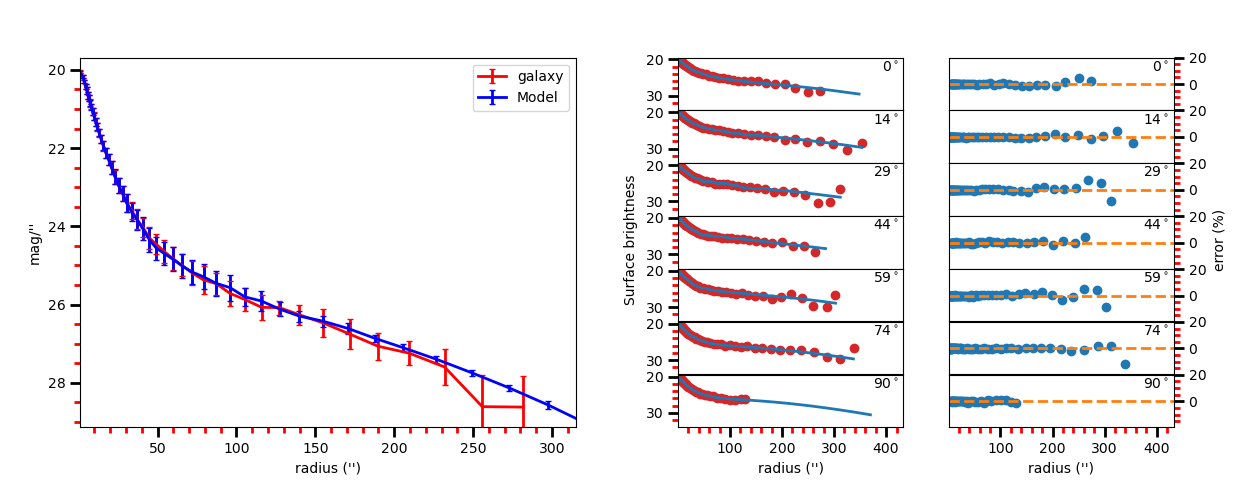
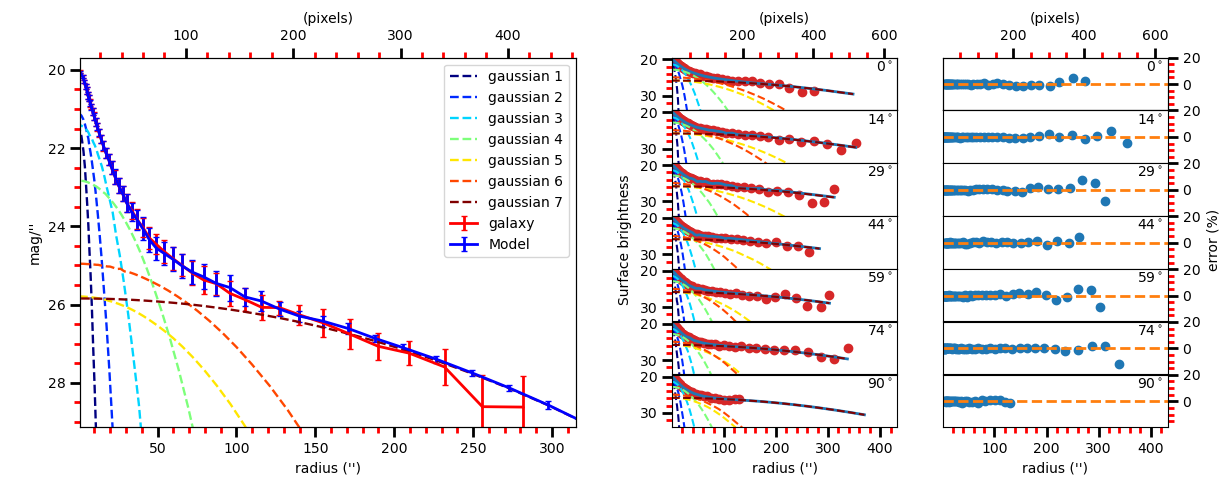
paper updated on comments of collaborators (not all of them). Figure and docs were updated as well.
On branch master
 Your branch is up-to-date with 'ellipsect/master'.
 Changes to be committed:
	modified:   ../docs/Ellipse.md
	modified:   ../docs/sbprof.md
	modified:   Fig1.png
	modified:   paper.md

diff --git a/paper/paper.md b/paper/paper.md
@@ -1,5 +1,5 @@
 ---
-title: 'EllipSect: A python tool for surface brightness analysis'
+title: 'EllipSect: A Python tool for surface brightness analysis'
 tags:
   - Python
   - astronomy
@@ -13,7 +13,9 @@ authors:
   - name: Omar U. Reyes-Amador
     affiliation: 2
   - name: Emmanuel Ríos-López
+    orcid: 0000-0002-4436-221X
     affiliation: "1, 3"
+
 affiliations:
  - name: Facultad de Ciencias de la Tierra y el Espacio, Universidad Autónoma de Sinaloa, Blvd. de la Americas y Av. Universitarios S/N, Ciudad Universitaria, C.P. 80010 Culiacán, Sinaloa, México
    index: 1
@@ -28,27 +30,27 @@ bibliography: paper.bib
 # Summary
 
 Galaxies are the building blocks of the large scale structure of the Universe. 
-The larger ones contain billions of stars that forms stellar components such 
-as bulges, bars, disks and rings. Consequently, these components makes a diverse variety of galaxy morphology. The quantification of the galaxy images is a fundamental step to understand their structure and composition. Using models that fit their light distribution is one way to do it. Such models are mathematical functions of surface brightness for the different components of the galaxies. A suitable model that reliably represents the physical properties requires a detailed inspection of the fitted models.
+The larger ones contain billions of stars that form stellar components such 
+as bulges, bars, disks and rings. Consequently, these components make a diverse variety in galaxy morphology. The quantification of the galaxy images is a fundamental step to understand their structure and composition [emmanuel comentario]. Using models that fit their light distribution is one way to do it. Such models are mathematical functions of surface brightness for the different components of the galaxies. A suitable model that reliably represents the physical properties requires a detailed inspection of the fitted models.
 
-A well-known program to fit surface brightness models is GALFIT ([@peng02] 1752 cites at the moment of writing this paper). It provides a wide variety of standard functions such as Sérsic [@sersic68], de Vaucouleurs [@devau48], Nuker, gaussian etc. GALFIT provides the fitted model parameters, errors, and a FITS (Flexible Image Transport System) cube image to check if the galaxy model is the appropriate one.
-The FITS file contains the galaxy, model and residual images. Typically, a visual check on those images can be difficult since it relies on image contrast. Nevertheless, users construct surface brightness profiles from the GALFIT's provided data to compare the galaxy and model images.
+A well-known program for modeling the surface brightness of astronomical sources is GALFIT [[@peng02] 1752 cites at the moment of writing this paper]. It allows to use a wide variety of standard functions such as Sérsic [@sersic68], de Vaucouleurs [@devau48], Nuker, gaussian, among others. GALFIT provides the fitted model parameters, errors, and a FITS (Flexible Image Transport System) cube image to check if the galaxy model is the appropriate one.
+The FITS file contains the galaxy, model and residual images. Typically, a visual check on those images can be difficult since it relies on image contrast. Nevertheless, users construct surface brightness profiles from the GALFIT's output data to compare the galaxy and model images.
 
-GALFIT's users have been using plots of surface brightness vs. radius to guide the eye for deviations from the galaxy and the model. To do this, they have been using IRAF's(Image Reduction and Analysis Facility) task ellipse [@jed87] which is another well-know program to extract surface brightness profiles through ellipse fitting of the galaxy isophotes (regions of the galaxy where the surface brightness is constant). This process requires the data format translation from GALFIT to ellipse. This take time if the user needs to test various models to select the appropriate one for the galaxy. An additional issue is that the development and maintenance of IRAF is discontinued since 2013. Nowadays, IRAF is actually supported by the astronomy community. 
+GALFIT's users have been using plots of surface brightness vs. radius to guide the eye for deviations from the galaxy and the model. To do this, they have been using IRAF's(Image Reduction and Analysis Facility) task *ellipse* [@jed87] which is another well-know program to extract surface brightness profiles through ellipse fitting of the galaxy isophotes (regions of the galaxy where the surface brightness is constant). This process requires the data format translation from GALFIT to ellipse. This take time if the user needs to test various models to select the appropriate one for the galaxy. An additional issue is that the development and maintenance of IRAF is discontinued since 2013. Nowadays, IRAF is actually supported by the astronomy community. 
 
-``EllipSect`` is a python tool to make surface brightness profiles and extract complementary photometry from the GALFIT output. The program aids the users to select, remove or change model components. The goal is to provide the most information to select the best model. ``EllipSect`` outputs include graphs of the surface brightness profiles for the galaxy and model. For multiple galaxy fits, it takes into account the surface brightness of nearby galaxies. This is unfeasible to do with IRAF's task ellipse. It can also includes the individual model components for a detailed analysis. Furthermore, ``EllipSect`` complements the GALFIT photometry by adding other data besides the ones extracted from the model's parameters, such as the total magnitude, luminosity, component to total luminosity ratio among others photometric variables (see section below). 
+Hence, we introduce ``EllipSect`` is a Python tool to make surface brightness profiles and extract complementary photometry from the GALFIT output. The program aids the users to select, remove or change model components. The goal is to provide the most information to select the best model. ``EllipSect`` outputs include graphs of the surface brightness profiles for the galaxy and model. For multiple galaxy fits, it takes into account the surface brightness of nearby galaxies [emmanuel comentario]. This is unfeasible to do with IRAF's task ellipse. It can also includes the individual model components for a detailed analysis. Furthermore, ``EllipSect`` complements the GALFIT photometry by adding other data besides the ones extracted from the model's parameters, such as the total magnitude, luminosity, component to total luminosity ratio, among others photometric variables (see section below). 
 
-Using scripts for GALFIT has been used before [@haussler13], but they have covered other needs. For instance, their code run GALFIT to fit thousands of objects without user interaction on large images.
+Various scripts for GALFIT have been used before [@haussler13], however they cover other needs. For instance, their code run GALFIT to fit thousands of objects without user interaction on large images [emmanuel comentario DGCG].
 
 We designed ``EllipSect`` to be easy to use for any researcher from the 
-astronomy community. It omits any direct interaction with the code or translation of GALFIT's data format. ``EllipSect`` has been used to analyse galaxy images from 2MASS and LINERs galaxies.  
+astronomy community. It omits any direct interaction with the code or translation of GALFIT's data format. ``EllipSect`` has been used to analyze galaxy images from 2MASS (Two Micron All Sky Survey) and LINERs galaxies in which estimations of  morphological and structural parameters have been obtained through photometric decompositions using GALFIT [emmanuel comentario].  
 
 
 # ``ELLIPSECT``
 
-``EllipSect`` only requires the GALFIT output file. In this simple mode, ``EllipSect`` makes two graphs: one contains the surface brightness average along major axis, and the other contains the surface brightness for different angles displayed in multiple plots. See figure 1 for a fit of 7 gaussian models for an elliptical galaxy.  
+``EllipSect`` only requires the GALFIT output file. In this simple mode, ``EllipSect`` makes two graphs: one contains the surface brightness average along major axis, and the other contains the surface brightness for different angles displayed in multiple plots. See figure 1 for a fit of 7 gaussian models [emmanuel comentario] for an elliptical galaxy [emmanuel comentario].  
 
-![EllipSect output sample of an elliptical galaxy and its model that was fitted with 7 gaussian models. In both panels red color represents the galaxy and blue the GALFIT model. Left panel: Surface brightness average vs. radius along the major axis. Model also has error bars since it is the average of individual model components. Right panel: multi plot of surface brightness of galaxy and model at different angles from major axis (major axis is the one with $0\deg$). The percentage error is shown at the right side of the multi plot. ](Fig1.png)
+![Example of EllipSect output for an elliptical galaxy and its model that was fitted with 7 gaussian components. In both panels red color represents the galaxy and blue the GALFIT model. Left panel: Surface brightness average vs. radius along the major axis. Model also has error bars since it is the average of individual model components. Right panel: multiple plots of surface brightness of galaxy and model at different angles from major axis (major axis is the one with $0\deg$). The percentage error is shown at the right side of the multi plot. ](Fig1.png)
 
 
 ## Different Modes
@@ -59,15 +61,15 @@ files of the surface brightness data used in the graphs.
 
 Below is shown a summary of the different features for ``EllipSect``:
 
-- **Components** If multiple models compose a surface brightness model, users can enable ``ElliSect`` to include the surface brightness of each sub-component. This allows the user to check if these are fitted as desired.
+- **Components**: If multiple models compose a surface brightness model, users can enable ``ElliSect`` to include the surface brightness of each sub-component. This allows the user to check if these are fitted as desired.
 
-- **Sky** The program uses the GALFIT's sky value from the input file, but alternatively, users can enter their own sky value. Furthermore, just for comparison, ``EllipSect`` can calculate the sky background in the sector region where the gradient turns positive. 
+- **Sky**: The program uses the GALFIT's sky value from the input file, but alternatively, users can enter their own sky value. Furthermore, just for comparison, ``EllipSect`` can calculate the sky background in the sector region where the gradient turns positive. 
 
-- **Complementary photometric variables.**  ``EllipSect`` can compute photometric variables that are indirectly extracted from the model parameters. For instance: total magnitude, flux, mean surface brightness at effective radius, radius at 90% of total light, bulge to total ratio, and component to total light ratio.
+- **Complementary photometric variables.**:  ``EllipSect`` can compute photometric variables that are indirectly extracted from the model parameters. For instance: total magnitude, flux, mean surface brightness at effective radius, radius at 90% of total light, bulge to total ratio, and component to total light ratio.
   
-- **Photometric aperture parameters.** The program uses _sectors\_photometry_ [@cappellari02] which divides an ellipse around the galaxy into sectors to compute the counts in each subregion. Using this ellipse, ``EllipSect`` calculates the following parameters: Tidal [@tal09], Bumpiness [@blakeslee06], Signal to Noise Ratio, $\chi_{\nu}$, Akaike information criterion [@akaike74], Bayesian information criterion [@schwarz78].
+- **Photometric aperture parameters.**: The program uses _sectors\_photometry_ from MGEfit library [@cappellari02], which divides an ellipse around the galaxy into sectors to compute the counts in each subregion. Using this ellipse, ``EllipSect`` calculates the following parameters: Tidal [@tal09], Bumpiness [@blakeslee06], Signal to Noise Ratio, $\chi^2_{\nu}$, Akaike information criterion [@akaike74], Bayesian information criterion [@schwarz78].
 
-- **NED** ``EllipSect`` connects to NED[^](The NASA/IPAC Extragalactic Database (NED) is funded by the National Aeronautics and Space Administration and operated by the California Institute of Technology.) to download data for the galaxy to estimate absolute magnitude, luminosity, galactic extinction, distance modulus, cosmology corrected scale and surface brightness dimming.  
+- **NED**: ``EllipSect`` connects to NED (the NASA/IPAC Extragalactic Database (NED) is funded by the National Aeronautics and Space Administration and operated by the California Institute of Technology.) to download data for the galaxy to estimate absolute magnitude, luminosity, galactic extinction, distance modulus, cosmology corrected scale and surface brightness dimming.  
  
  
 

diff --git a/docs/Ellipse.md b/docs/Ellipse.md
@@ -1,17 +1,17 @@
 
-# EllipSectGalfit.py
+# EllipSect.py
 
-EllipSectGalfit.py creates surface brightness profiles
+EllipSect.py creates surface brightness profiles
 for galaxy and galfit model from the galfit output: galfit.XX. 
 See peng et al. (2002). It also creates multiple surface brightness 
 plots for separate angles.  
 
-**Code: [EllipSectGalfit.py](../EllipSectGalfit.py)**
+**Code: [EllipSect.py](../EllipSect.py)**
 
 This is a "quick" substitute for IRAF's ellipse routine. It 
 creates a Surface brightness profile for the galaxy and model.
 
-In addition, *EllipSectGalfit* can compute variables such as Absolute Magnitude, 
+In addition, *EllipSect* can compute variables such as Absolute Magnitude, 
 luminosity, Flux, total apparent magnitude, Bulge to Total Ratio, Tidal, Chinu
 in the sectors ellipse, Bumpiness, SNR, AIC, BIC, mean surface brightness,
 percentage of total light per component, radius at 90% of light (Sersic component only), effective radius in kpc, etc.  
@@ -28,7 +28,7 @@ pip install mgefit
 *The easiest way to run the program is:*
 
 ```
- ./EllipSectGalfit.py galfit.01 
+ ./EllipSect.py galfit.01 
 ```
 
 ## OPTIONS
@@ -36,7 +36,7 @@ pip install mgefit
 The options to run the code in the terminal (or ipython) are:
 
 ```
- ./EllipSectGalfit.py [GALFITOutputFile] [-logx] [-q AxisRatio] [-pa PositionAngle] [-comp] [-pix] [-ranx/y Value] [-grid] [-dpi Value] [-noplot] [-phot] [-sbout] [-noplot] [-minlevel Value] [-sectors Value] [-object Name] [-filter Name] [-snr] [-help] [-checkimg] [-noned] [-distmod Value] [-magcor Value] [-scalekpc Value][-sbdim Value] [-model ModelImage] [-keep] [-ned XmlFile] 
+ ./EllipSect.py [GALFITOutputFile] [-logx] [-q AxisRatio] [-pa PositionAngle] [-comp] [-pix] [-ranx/y Value] [-grid] [-dpi Value] [-noplot] [-phot] [-sbout] [-noplot] [-minlevel Value] [-sectors Value] [-object Name] [-filter Name] [-snr] [-help] [-checkimg] [-noned] [-distmod Value] [-magcor Value] [-scalekpc Value][-sbdim Value] [-model ModelImage] [-keep] [-ned XmlFile] 
  ```
 
 ### Input File
@@ -123,20 +123,20 @@ Any of the following options disabled the connection to NED
 
 ## Notes
 
-* EllipSectGalfit works for GALFIT version $> 3.0.7$ Check this because you will
+* EllipSect works for GALFIT version $> 3.0.7$ Check this because you will
     have issues for *-comp* option.
 
-* EllipSectGalfit uses the mask image (option "*F*" GALFIT) only if this
+* EllipSect uses the mask image (option "*F*" GALFIT) only if this
     is a **FITS** image. In case your mask is an *ASCII* file, you can convert it to **FITS** using the [xy2fits.py](xy2fits.md) tool.
 
 
-* EllipSectGalfit uses axis ratio (*q*) and position angle (*pa*) to create an "ellipse" *grid* using the function *sectors_photometry* from the *mgefit* library. Unlike IRAF's Ellipse, *q* and *pa* are fixed through radius. See the two images below: 
+* EllipSect uses axis ratio (*q*) and position angle (*pa*) to create an "ellipse" *grid* using the function *sectors_photometry* from the *mgefit* library. Unlike IRAF's Ellipse, *q* and *pa* are fixed through radius. See the two images below: 
 
     ![A85 gal](../img/A85.img.png)
     ![A85 mod](../img/A85.img.mod.png)
 
     For this reason, errors are expected to 
-    be greater than those coming from IRAF's ellipse since EllipSectGalfit 
+    be greater than those coming from IRAF's ellipse since EllipSect 
     averages errors for different isophotes. While, on the other hand, IRAF's ellipse
     can change axis ratio and angular position for each isophote. 
     
@@ -144,7 +144,7 @@ Any of the following options disabled the connection to NED
 
 * Be sure to run this code in the same path that you run GALFIT. 
 
-* Since EllipSectGalfit reads the "*B*" option of galfit.XX file, this
+* Since EllipSect reads the "*B*" option of galfit.XX file, this
     must be the **last** GALFIT fit. 
 
 * The angles shown in the multi-plot are measured from the galaxy's major axis.
@@ -152,7 +152,7 @@ Any of the following options disabled the connection to NED
 
 * In order for the program to detect the components, they must share the same 
     center (x,y). This allows that galfit can use other components such as
-     sersic to be used as masks for nearby GALFIT. EllipSectGalfit already does not 
+     sersic to be used as masks for nearby GALFIT. EllipSect already does not 
      take them into account for the plots.
 
 * For the comp option, It could be some small differences between the angle shown 
@@ -164,13 +164,13 @@ Any of the following options disabled the connection to NED
 ## Examples
 
 * Displays the help menu: 
-    ./EllipSectGalfit.py -help
+    ./EllipSect.py -help
 
 
 * To manually introduce an axis ratio of 0.35 and position angular of 60 
     (measured from Y-axis): 
 
-     ./EllipSectGalfit.py galfit.02 -q 0.35 -pa 60 
+     ./EllipSect.py galfit.02 -q 0.35 -pa 60 
 
 ### Plot Examples
 
@@ -178,50 +178,50 @@ See the examples below for an elliptical galaxy that was fitted
 with 7 gaussians (images for this galaxy are displayed above). 
 
 * Simple plot example: 
-    ./EllipSectGalfit.py galfit.46 
+    ./EllipSect.py galfit.46 
 
     ![A85 ](../img/A85.png)
     ![A85 ](../img/A85.mul.png)
 
 * Displays the X-axis as log:
-    ./EllipSectGalfit.py galfit.46 -logx
+    ./EllipSect.py galfit.46 -logx
 
     ![A85 ](../img/A85.log.png)
     ![A85 ](../img/A85.mul.log.png)
 
 * Include the individual model components to the plot:  
-    ./EllipSectGalfit.py galfit.46 -comp
+    ./EllipSect.py galfit.46 -comp
     (displays the 7 gaussians)
 
     ![A85 ](../img/A85.sub.png)
     ![A85 ](../img/A85.mul.sub.png)
 
 * Insert pixels units in the top X-axis: 
-    ./EllipSectGalfit.py galfit.46 -pix
+    ./EllipSect.py galfit.46 -pix
 
     ![A85 ](../img/A85.pix.png)
     ![A85 ](../img/A85.mul.pix.png)
 
 * Range in X-axis is decreased 50%: 
-    ./EllipSectGalfit.py galfit.46 -ranx 0.5 
+    ./EllipSect.py galfit.46 -ranx 0.5 
 
     ![A85 ](../img/A85.ranx1.png)
     ![A85 ](../img/A85.mul.ranx1.png)
 
 * Range in Y-axis is doubled: 
-    ./EllipSectGalfit.py galfit.46 -rany 2 
+    ./EllipSect.py galfit.46 -rany 2 
 
     ![A85 ](../img/A85.rany1.png)
     ![A85 ](../img/A85.mul.rany1.png)
 
 * X-axis range vary from 1 to 50: 
-    ./EllipSectGalfit.py galfit.46 -ranx 1-50 
+    ./EllipSect.py galfit.46 -ranx 1-50 
 
     ![A85 ](../img/A85.ranx2.png)
     ![A85 ](../img/A85.mul.ranx2.png)
 
 * Use grid on plot and increase resolution to 300 dots per inch: 
-    ./EllipSectGalfit.py galfit.46 -grid -dpi 300 
+    ./EllipSect.py galfit.46 -grid -dpi 300 
 
     ![A85 ](../img/A85.grid.png)
     ![A85 ](../img/A85.mul.grid.png)
@@ -229,22 +229,22 @@ with 7 gaussians (images for this galaxy are displayed above).
 * Same as above but popup window does not appear. Plots are 
     directly saved in directory: 
  
-    ./EllipSectGalfit.py galfit.46 -grid -dpi 300 -noplot 
+    ./EllipSect.py galfit.46 -grid -dpi 300 -noplot 
 
 * If the user desires to create their own plots, 'sbout' option
   will save the surface brightness vs. radius of the galaxy and model
   in a file:
    
-    ./EllipSectGalfit.py galfit.46 -sbout
+    ./EllipSect.py galfit.46 -sbout
 
-  EllipSectGalfit can also save the surface brightness data for 
+  EllipSect can also save the surface brightness data for 
   individual components in separated files:
 
-    ./EllipSectGalfit.py galfit.46 -comp -sbout 
+    ./EllipSect.py galfit.46 -comp -sbout 
 
 ### Phot Examples
 
-*   *EllipSectGalfit* can calculate additional info besides the ones 
+*   *EllipSect* can calculate additional info besides the ones 
     that are already included in the galfit.XX or fit.log files.  
     Those variables are intended to help the user to have a quick reference 
     of the model and decide to modify the model or increase the number of components.
@@ -255,56 +255,56 @@ with 7 gaussians (images for this galaxy are displayed above).
     
     Those variable are stored in a single file when the following command is executed:
 
-    ./EllipSectGalfit.py galfit.46 -phot
+    ./EllipSect.py galfit.46 -phot
 
 
 *   *phot* option looks in NED (NASA/IPAC Extragalactic Database) for 
     Galactic Extinction, distance modulus, surface brightness dimming, etc. 
     to compute Absolute Magnitude, luminosity and other variables. To do this,
-    EllipSectGalfit looks for name of the galaxy (as it is searched in NED) 
+    EllipSect looks for name of the galaxy (as it is searched in NED) 
     and wavelength band in the header. If that info is not in 
     the header, the user can introduce the band and object name as
     it is shown in the next example for galaxy messier 51 in the band B:  
 
 
-    ./EllipSectGalfit.py galfit.14 -phot -object m51 -filter B
+    ./EllipSect.py galfit.14 -phot -object m51 -filter B
 
 *   If the user wants to see a Signal to Noise image of the data, use 
     the next command:
 
-    ./EllipSectGalfit.py galfit.14 -phot -snr
+    ./EllipSect.py galfit.14 -phot -snr
 
 *   If for some reason the user does not want to connect to NED use 
     the following option:
 
-    ./EllipSectGalfit.py galfit.14 -phot -noned
+    ./EllipSect.py galfit.14 -phot -noned
 
     take into account that Luminosity and Absolute magnitud will not be computed
 
-*   EllipSectGalfit allows to introduce manually the NED info. For example, 
+*   EllipSect allows to introduce manually the NED info. For example, 
     the next command introduce a distance modulus of 10, galactic extinction 
     of 0.3, "/kpc of 1.3 and surface brightness dimming of 0.3.  
 
-    ./EllipSectGalfit.py galfit.10 -phot -distmod 10 -magcor 0.3 -scalekpc 1.3 -sbdim .3
+    ./EllipSect.py galfit.10 -phot -distmod 10 -magcor 0.3 -scalekpc 1.3 -sbdim .3
 
     This option avoids to connect with NED. 
 
-    EllipSectGalfit does not correct by K-correction. 
+    EllipSect does not correct by K-correction. 
 
 
 ### Advanced Examples
 
 *   model option allows the user to introduce his own model image for analysis.
-    EllipSectGalfit will use this image instead of the one created by GALFIT output.
+    EllipSect will use this image instead of the one created by GALFIT output.
     If -phot option is enabled, SNR quantities will be inaccurate.
 
-    ./EllipSectGalfit.py galfit.14 -model model.fits
+    ./EllipSect.py galfit.14 -model model.fits
 
 *   sky option allows the user to introduce his/her own sky value to substract 
     from galaxy and model images. User must know what he/she is doing because
-    otherwise EllipSectGalfit will produce wrong outputs.  
+    otherwise EllipSect will produce wrong outputs.  
 
-    ./EllipSectGalfit.py galfit.01 -sky 300
+    ./EllipSect.py galfit.01 -sky 300
 
 
 *   The following options requires that the user has already experienced with 
@@ -314,7 +314,7 @@ with 7 gaussians (images for this galaxy are displayed above).
     It indicates when the functions stops. For example, the following command
     tells to *sectors_photometry* that stops when the sky is 0.
 
-    ./EllipSectGalfit.py galfit.14 -minlevel 0
+    ./EllipSect.py galfit.14 -minlevel 0
 
 
     Note: Galfit sky parameter is already removed from image before the call 
@@ -325,7 +325,7 @@ with 7 gaussians (images for this galaxy are displayed above).
     It tells the function in how many sectors it should divide. *sectors_photometry* 
     use four-fold symmetry.  
 
-    ./EllipSectGalfit.py galfit.14 -sectors 19
+    ./EllipSect.py galfit.14 -sectors 19
 
 *   checkimg will create images used by *sectors_photometry* to check how 
     this function was used on the individual model components. The images 
@@ -333,12 +333,12 @@ with 7 gaussians (images for this galaxy are displayed above).
     
     Use it with the 'comp' option:  
 
-    ./EllipSectGalfit.py galfit.14 -comp -checkimg
+    ./EllipSect.py galfit.14 -comp -checkimg
 
 
 
 
-**EllipSectGalfit.py** uses the mgefit library which is
+**EllipSect.py** uses the mgefit library which is
 described in Cappellari, MNRAS, 333, 400 (2002).
 
 Check my others GALFIT tools [here](../README.md)

diff --git a/docs/sbprof.md b/docs/sbprof.md
@@ -82,10 +82,10 @@ it can be used as ymin-ymax to change range.
 
 
 
-* EllipSectGalfit uses axis ratio (*q*) and position angle (*pa*) to create an      "ellipse" *grid* using the function *sectors_photometry* from the *mgefit* library. Unlike IRAF's Ellipse, *q* and *pa* are fixed through radius. 
+* EllipSect uses axis ratio (*q*) and position angle (*pa*) to create an      "ellipse" *grid* using the function *sectors_photometry* from the *mgefit* library. Unlike IRAF's Ellipse, *q* and *pa* are fixed through radius. 
 
     For this reason, errors are expected to 
-    be greater than those coming from IRAF's ellipse since EllipSectGalfit 
+    be greater than those coming from IRAF's ellipse since EllipSect 
     averages errors for different isophotes. While, on the other hand, IRAF's ellipse
     can change axis ratio and angular position for each isophote. 
     
@@ -100,7 +100,7 @@ it can be used as ymin-ymax to change range.
 See the output  examples below for an elliptical galaxy: 
 
 * Simple plot example: 
-    ./EllipSectGalfit.py galfit.46 
+    ./EllipSect.py galfit.46 
 
     ![A85 ](../img/A2593.png)
     ![A85 ](../img/A2593-mul.png)
